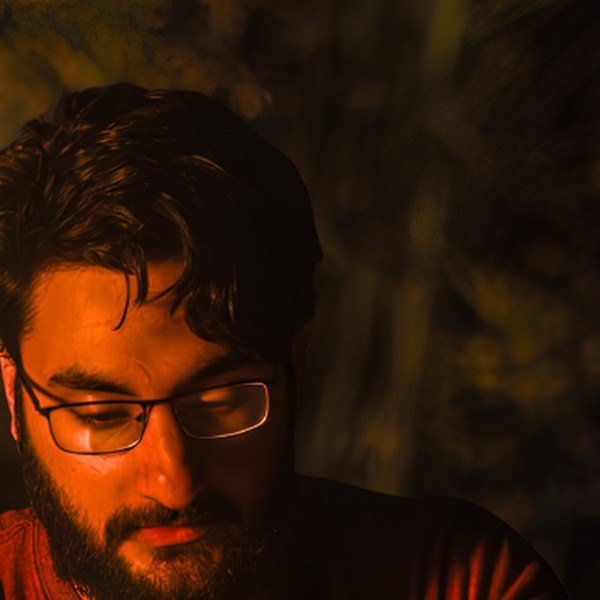
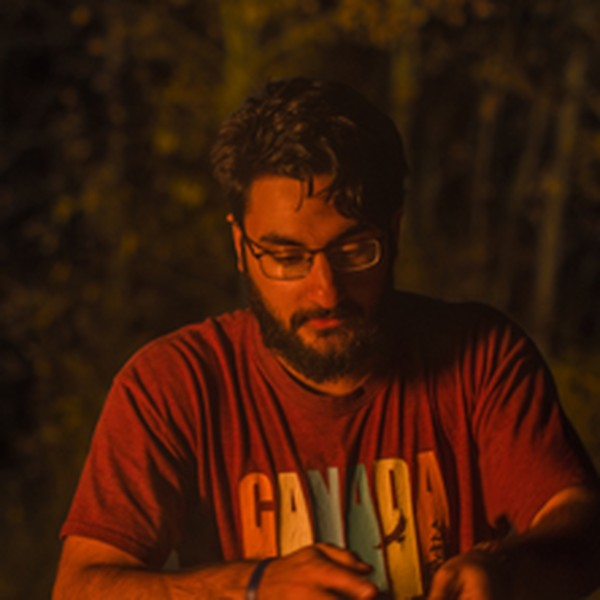
Re-crop team headshots from original photos
Claude-Session: https://claude.ai/code/session_01ADtH5jKwYdA1ps4D3kA1ju

diff --git a/content/site.ts b/content/site.ts
@@ -157,21 +157,21 @@ export const team = [
     name: "Mahmood Bachh",
     role: "Founder & Creative Director",
     image: "/images/team/mahmood.jpg",
-    position: "45% 40%",
+    position: "50% 50%",
     bio: "Driven by capturing lived experiences and bringing them to light. Every story is a chance to learn, improve and give his best to the people who trust him with their message.",
   },
   {
     name: "Omar Mohamed",
     role: "Filmmaker · Photographer",
     image: "/images/team/omar.jpg",
-    position: "30% 40%",
+    position: "50% 50%",
     bio: "A Canadian-born filmmaker, photographer and videographer telling stories that inspire, educate and connect communities, behind the camera since 16.",
   },
   {
     name: "Afnan Bahubeshi",
     role: "Filmmaker · Visual Storyteller",
     image: "/images/team/afnan.jpg",
-    position: "35% 35%",
+    position: "50% 50%",
     bio: "Working across documentary, commercial and narrative projects, focused on people, culture and the moments that often go unnoticed.",
   },
 ];
